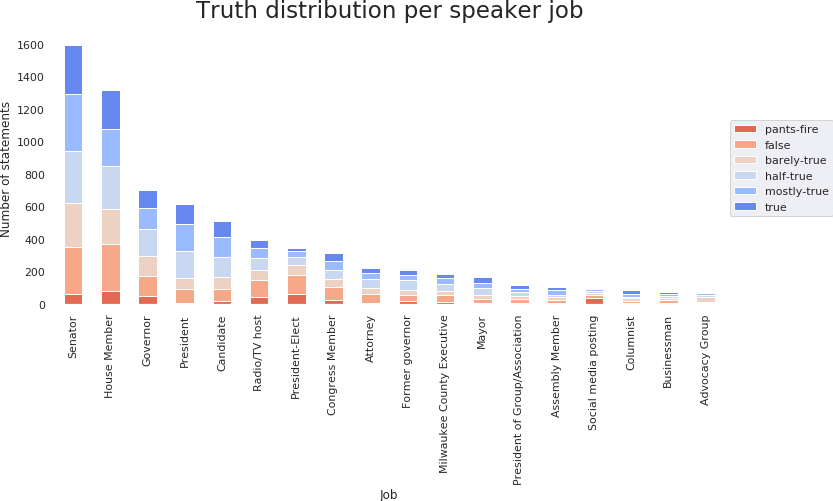
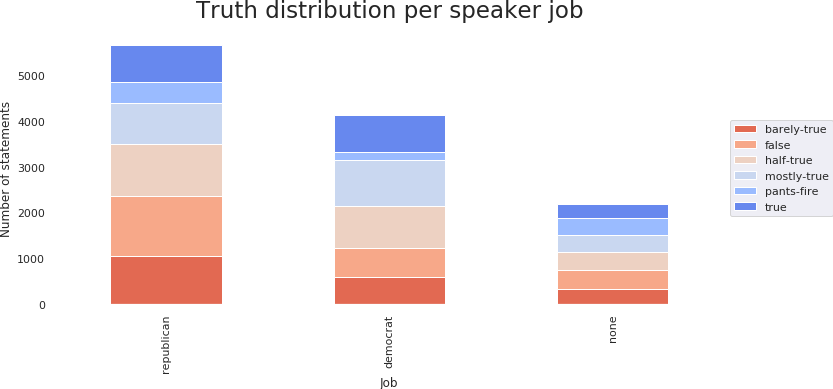
Added parties

diff --git a/index.md b/index.md
@@ -10,63 +10,61 @@ people comes with the downside of less checks for the validity of the
 information. Nowdays everyone can have a website and share information, without
 restrictions on the content quality.
 
-Understanding the lying patterns in order to be able to detect lies is a very
+Understanding the lying patterns in order to be able to detect lies is a
 difficult task. More research in natural language processing is needed, as well
 as more psychological studies and data. In this project, we take a small step
 in this direction, performing analysis of labelled political statements.
 
-Politics is a very widely debated topic and it has a direct impact on people's
-lives. Most of modern states in Europe and North America are based on
+Politics is a widely debated topic with direct impact on people's
+lives. Most modern states in Europe and North America are based on
 representative democracy, where vital decisions regarding the future of the
 country are taken by representatives chosen thorugh vote. Trusting those people
-is therefore vital, but not an easy task. There is a strong incentive of
-deforming the truth or lying in the election campain to gain more votes or
+is therefore a vital, but not an easy task. There is a strong incentive of
+deforming the truth or lying in the election campain to gain more votes, or
 during their mandate in order to keep a position of power.
 
-Another related problem of the modern society are the fake news. Media
+Another related problem of modern society are the fake news. Media
 companies strive to create high impact news, not always reporting the truth.
 
 In this project, we perform an analysis of the Liar dataset, a dataset of
-political statements from [politifacts](http://www.politifact.com), looking
+political statements from [politifact](http://www.politifact.com), looking
 at cues for determining the truthfulness of a statement. We also experiment
 with some machine learning models to get more insight into the data and
-extrapolate it to new statements.
+extrapolate this insight into new statements.
 
 ## The Liar dataset
 
 A great challenge for deception detection is the lack of a large amount of
 labelled data. We have used for our analysis the
 [Liar dataset (Wang, 2017)](https://arxiv.org/abs/1705.00648).
-This is, to the best of our knowledge, the one of the biggest labelled datasets
+This is, to the best of our knowledge, one of the biggest datasets
 of statements labelled according to their truthfulness.
 
 Unfortunately, while the dataset provides a lot of information regarding the
-context of the statement, the reasons for which it received a certain truth
-classification and 6 classes of truth, it has only about 12000 entries. The
-relatively low number of entries, as well as the predominance of statements
-from the US politics, does not allow for a good generalization. However, there
-is enough data for an analysis of the lies in the US politics from the past
-decade.
+context of the statement, which receives a certain classification from 6 
+classes of truth, it has only about 12000 entries. The relatively low number 
+of entries, as well as the predominance of statements from the US politics, 
+does not allow for a good generalization. However, there is enough data for 
+an analysis of the US political statements from the past decade.
 
 
 #### The political language
 
 Since we are dealing with natural language, we decided to start our analysis
-by examining the vocabulary present in the dataset. Since the statements share
-the same language and the same field, we expect a similar word distribution
-over the classes, but we are interested if some words tend to have a higher
-usage in a particular class.
+by examining the vocabulary present in the dataset. In general, a similar 
+word distribution over the statements is expected, given that all the 
+statements are political and made in English. However, our focus is finding 
+words that tend to have a higher precedence in a particular truth class.
 
 This is a relatively small dataset, with a body of almost 190 000 words.
-However, with and almost 12 000 unique tokens (we count 'home' and 'homes'
-as 2 different tokens), has a variate vocabulary, many words appearing just
+However, with almost 12 000 unique tokens (we count 'home' and 'homes'
+as 2 different tokens), it has a variate vocabulary, many words appearing just
 once or twice. For comparison, a publication by Laufer et al, 2010, indicates
-that understanding 8000 word families leads to a 98% vocabulary coverage in
+that understanding 8000 word families leads to a 98% vocabulary coverage in an
 average English spoken discourse, with as little as 3000 word families (5000
 lexical items) necessary for a minimal reading comprehension (Laufer (1992),
 Adolphs (2003)). Note that these publications talk about word families and
-lexical items, while we count tokens. Still, it provides a good intuition of
-the size of the vocabulary represented in the dataset.
+lexical items, while we count tokens.
 
 ![Wordcloud all](assets/wordcloud_all.png){: .center-image }
 
@@ -99,13 +97,13 @@ The dataset has over 12000 statements discussing 145 unique subjects, such as
 economy, climate change or immigration. We focused our analysis on the 54
 subjects with more than 100 statements:
 
-![subjects](assets/subjects.png)
+![subjects](assets/subjects.png){: .center-image }
 
 The economy and the health-care are the most represented subjects in the
 dataset. As noticed from the language analysis, health-care and medicare are
 the subjects with the largest proportion of lies:
 
-![subjectsnorm](assets/subjects_normalized.png)
+![subjectsnorm](assets/subjects_normalized.png){: .center-image }
 
 
 #### Who is speaking
@@ -115,11 +113,11 @@ have been made by 3310 unique speakers, such as Donald Trump or Ron Jonson, or
 sources such as Planned Parenthood or Blog Posts. We look at the 29 speakers
 with more than 50 statements.
 
-![subjects](assets/speakers.png)
+![subjects](assets/speakers.png){: .center-image }
 
 
 
-![subjects](assets/speakersnorm.png)
+![subjects](assets/speakersnorm.png){: .center-image }
 
 We notice that Barack Obama, Donald Trump and Hillary Clinton have the most
 statements. The normalized truth distribution visualization is a good
@@ -133,7 +131,6 @@ generalization of this analysis is based on the assumption of uniform sampling
 of the dataset. However, at such low statement counts, it is very possible that
 the sampling introduced some bias.
 
-
 #### What are speaker's professions
 
 Another relevant feature for the trustworthiness of an individual might be
@@ -141,11 +138,19 @@ their profession. In the Liar dataset, 803 professions are represented, with 18
 of them with over 50 samples.
 
 
-![jobs](assets/jobs.png)
+![jobs](assets/jobs.png){: .center-image }
 
+![jobs](assets/jobsnorm.png){: .center-image }
 
+The most common jobs are political positions, the most common being senator and
+house member. This is expected, considering that the statements are political.
 
-![jobs](assets/jobsnorm.png)
+#### Political affiliation
 
+Over 84% of the speakers in our dataset have 3 political affiliations, being
+democrats, republicans or with no political affiliations. 
 
+![jobs](assets/parties.png){: .center-image }
+
+![jobs](assets/partiesnorm.png){: .center-image }
 
